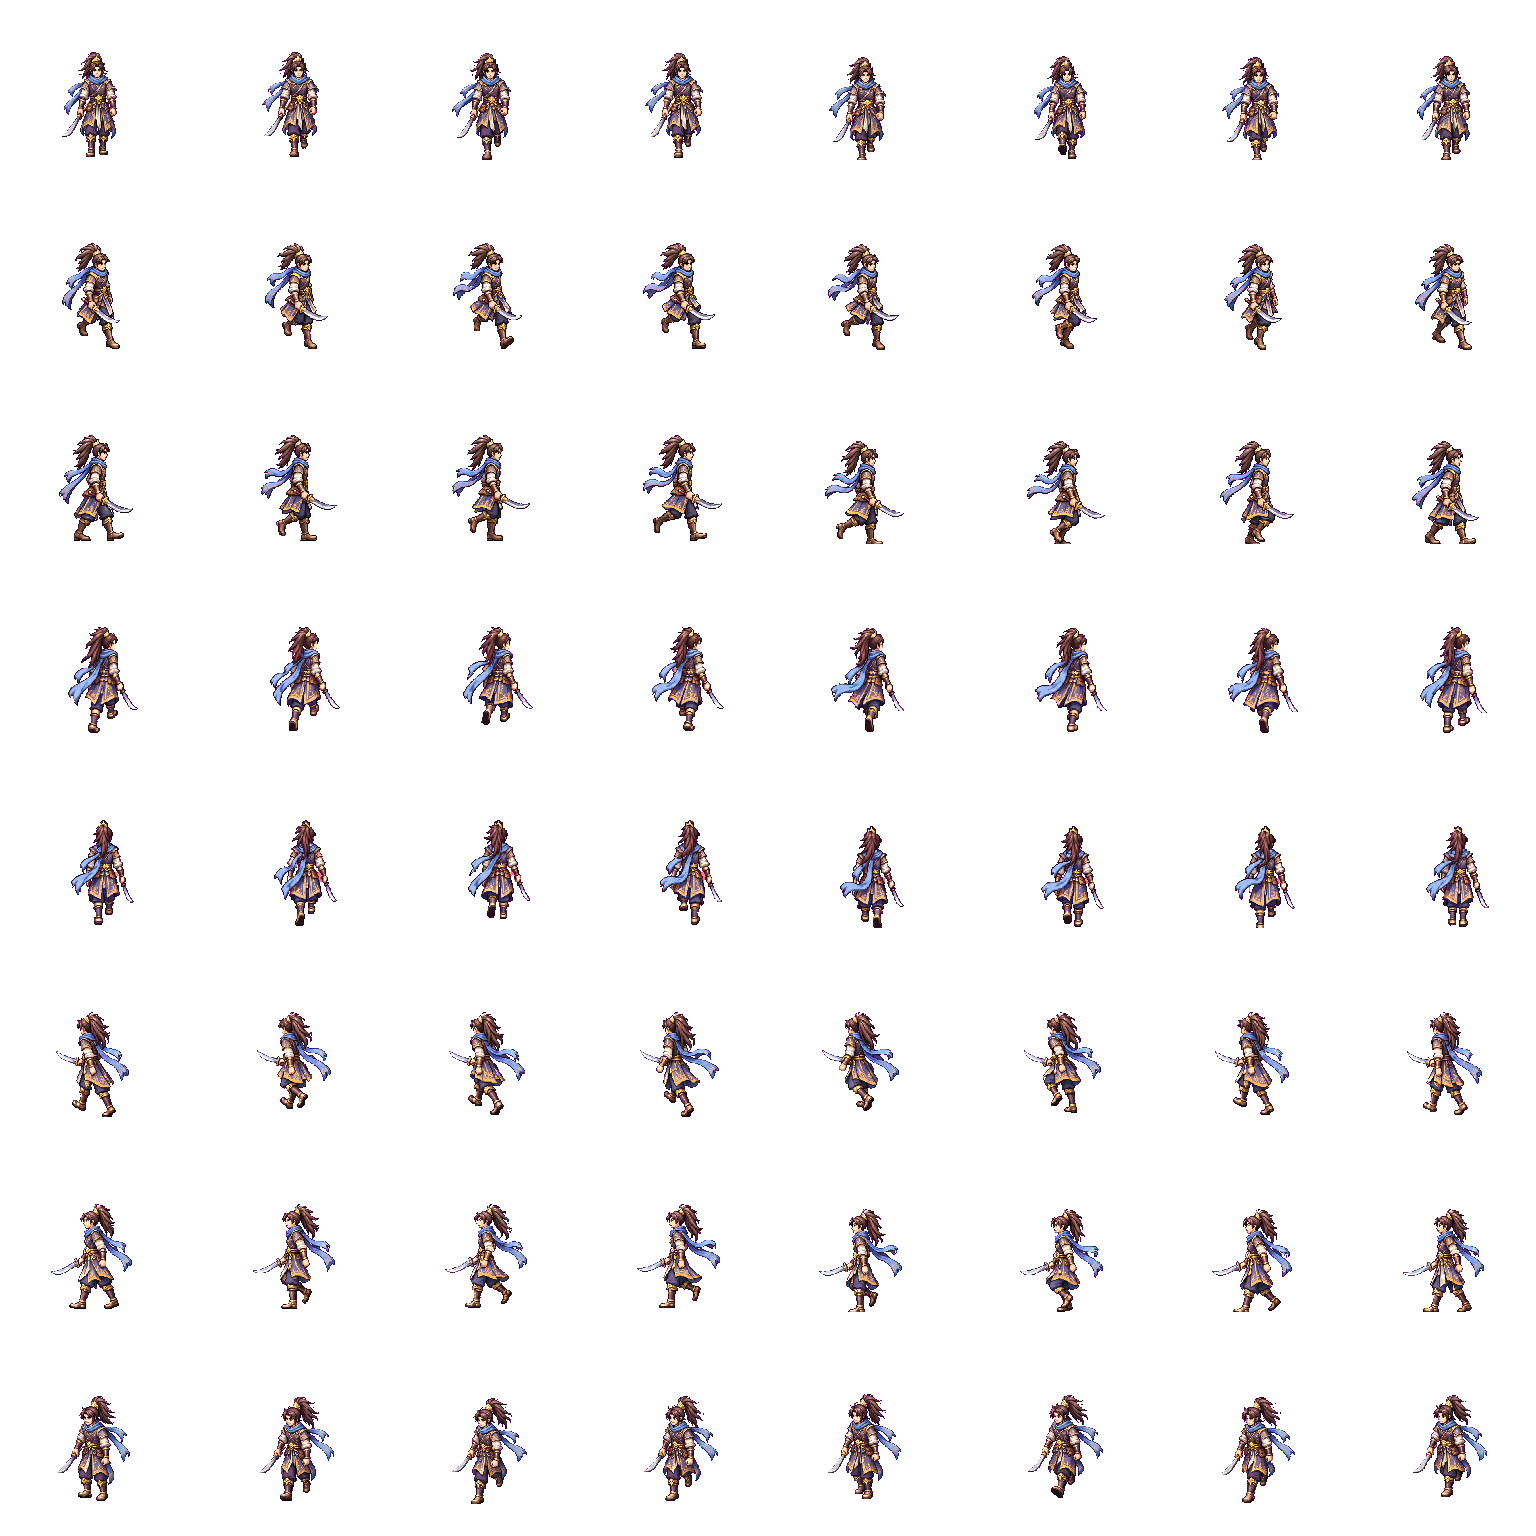
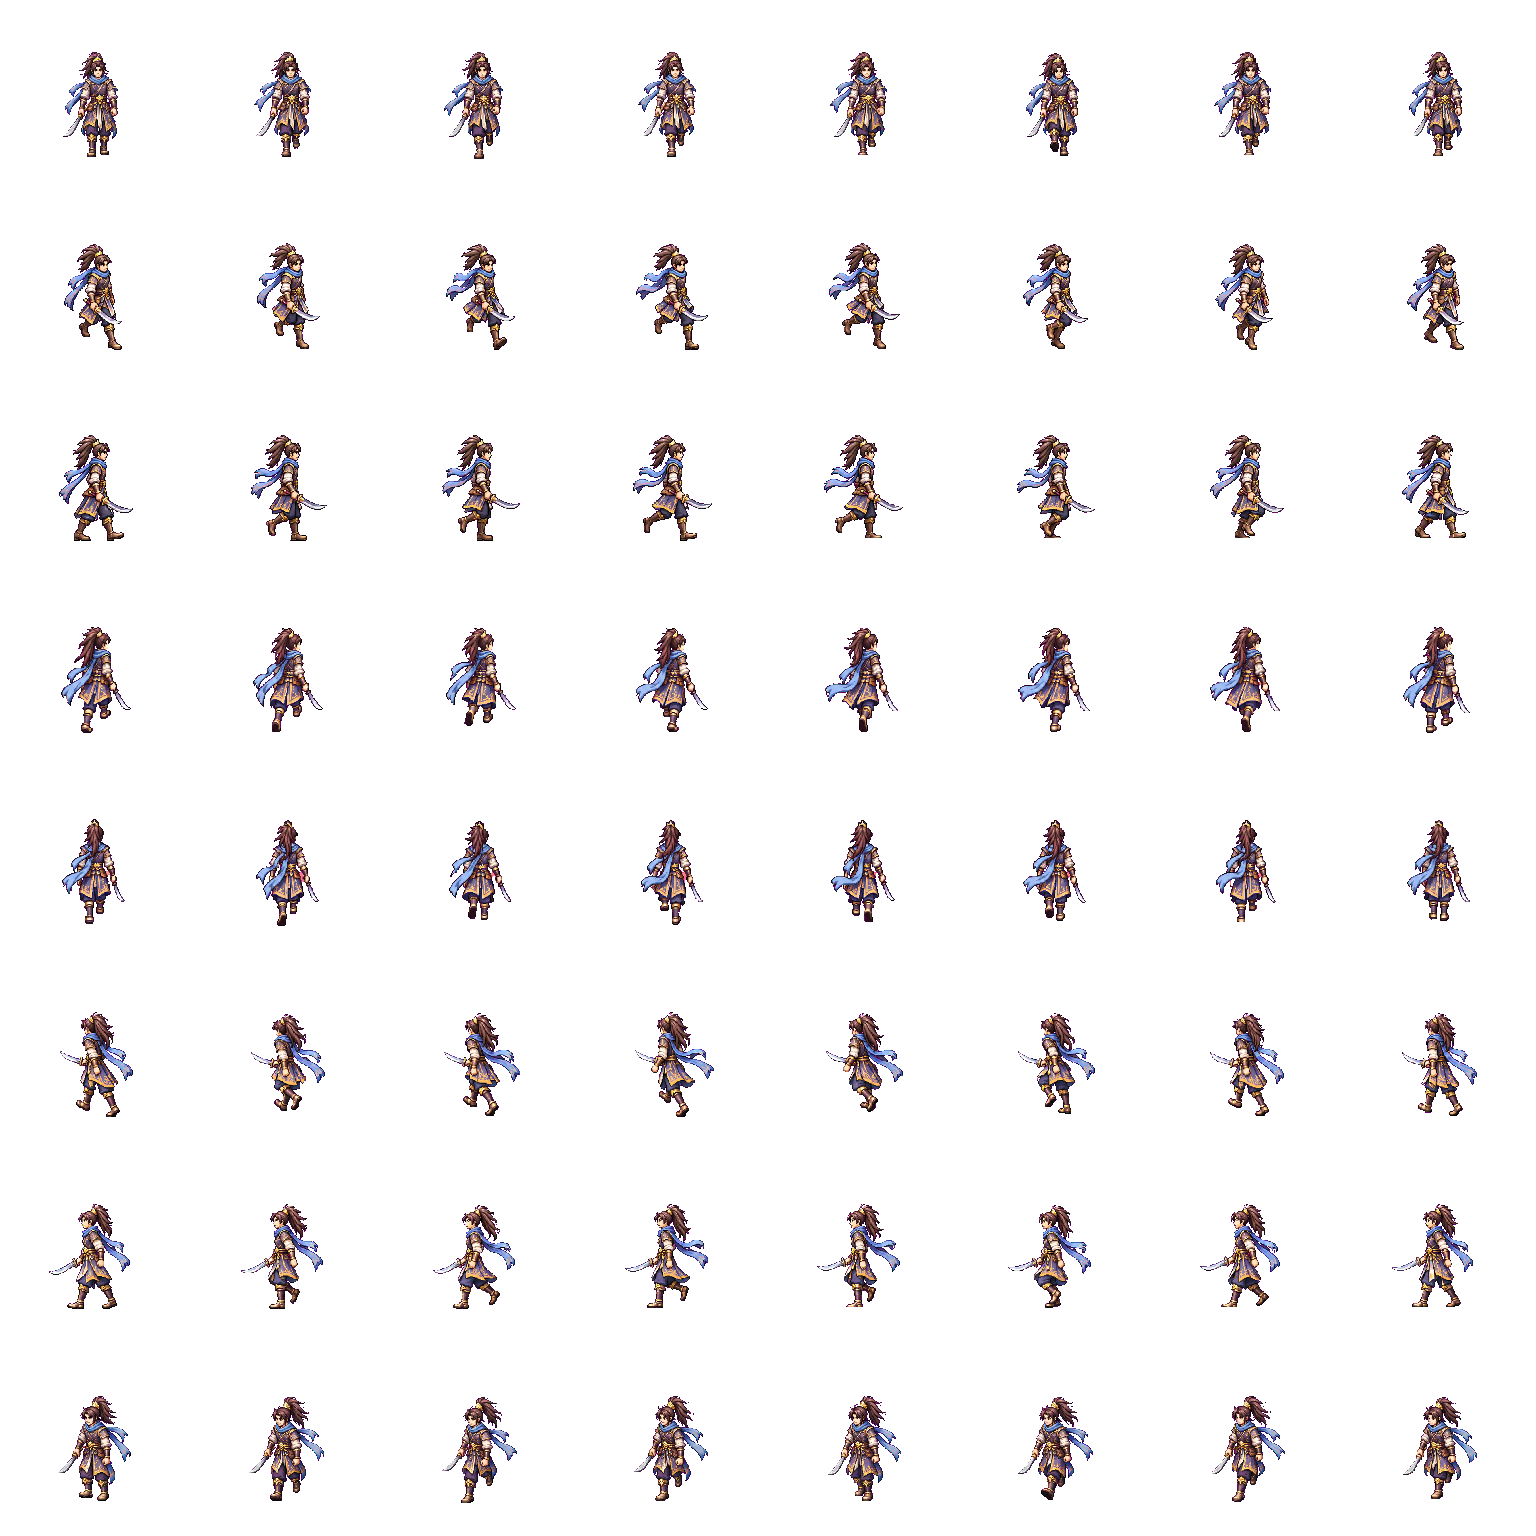
修正男獵戶走路抖動：每格頭部位置對齊站立圖
Claude-Session: https://claude.ai/code/session_01TfDhagCiaMjipPx8vrMTLg

diff --git a/sw.js b/sw.js
@@ -2,7 +2,7 @@
 // 讓遊戲可以「安裝到桌面/主畫面」成為獨立App，並提供離線快取(圖片/音效載入過一次後，
 // 離線或網路不穩時也能照常遊玩；index.html本身每次都優先抓最新版，確保更新後玩家能立刻拿到新內容)。
 
-const CACHE_VERSION = 'v80.36-22';           // 每次正式更新版本號時手動遞增，瀏覽器才會清掉舊快取換新的
+const CACHE_VERSION = 'v80.36-23';           // 每次正式更新版本號時手動遞增，瀏覽器才會清掉舊快取換新的
 const SHELL_CACHE = 'lineage-pixel-shell-' + CACHE_VERSION;
 const ASSET_CACHE  = 'lineage-pixel-assets-' + CACHE_VERSION;
 

diff --git a/index.html b/index.html
@@ -11215,7 +11215,7 @@ function drawSlotEmpty(x){ x.clearRect(0,0,200,200); }
 })();
 /* ============ 更新系統（登入首頁） ============ */
 // 版本號：每次正式更新時，這裡和 sw.js 的 CACHE_VERSION 一起遞增
-const GAME_VER='v80.36-22';
+const GAME_VER='v80.36-23';
 let _updNew=null;
 async function checkUpdate(manual){
   const msg=document.getElementById('updMsg'), btn=document.getElementById('updBtn');
